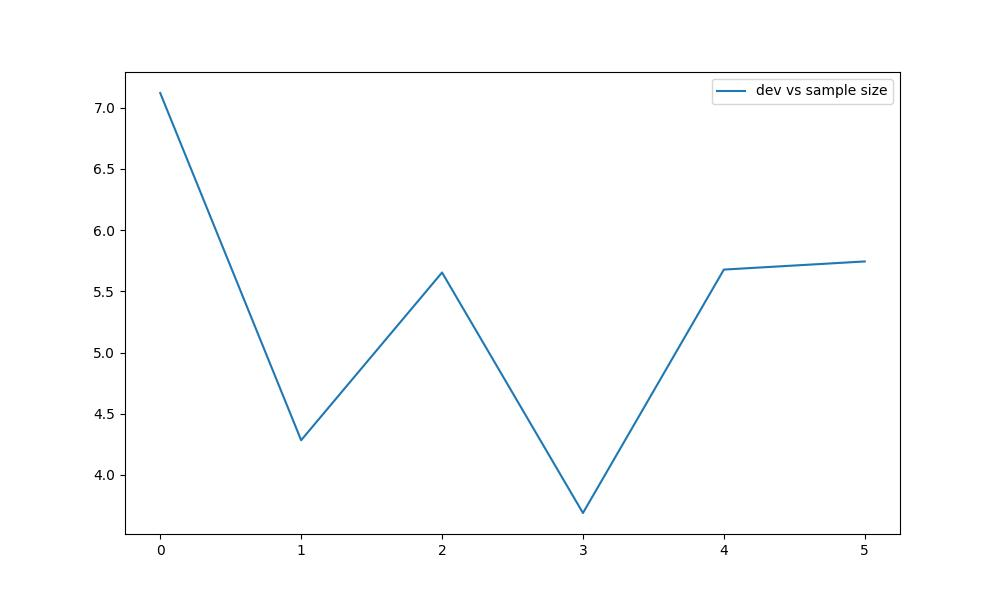
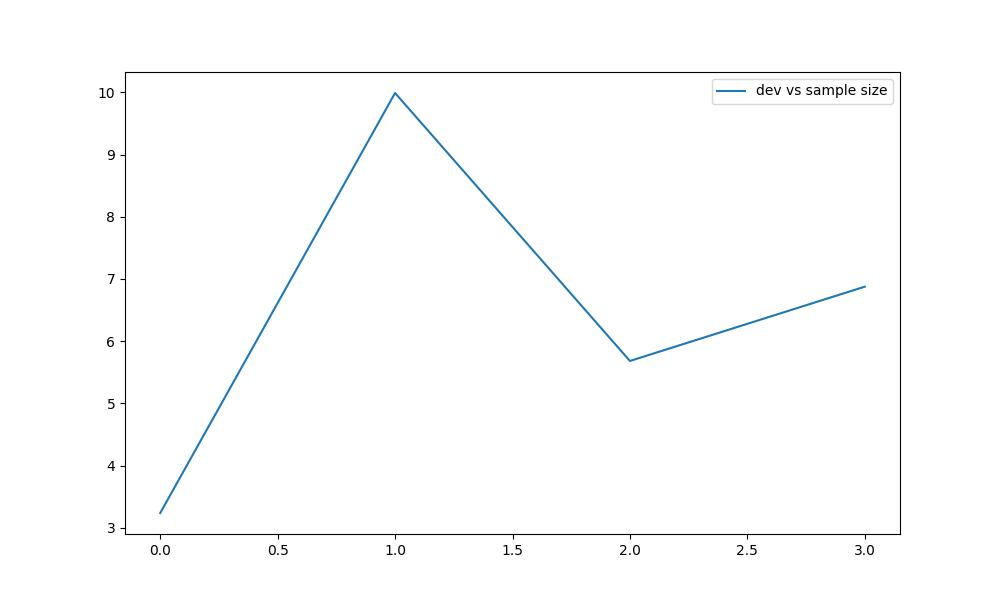
add code for offline

diff --git a/gp/gp_ucb.py b/gp/gp_ucb.py
@@ -17,7 +17,7 @@ def sample_u(CT, b, alpha, n):
         # sample x in the ball ||x||^2 < alpha
         x = np.random.normal(size=a)
         x = x / np.linalg.norm(x)  # unit vector
-        r = np.sqrt(alpha) * np.random.rand()**(1/a)
+        r = np.sqrt(alpha) 
         x = r * x
 
         # solve for u: C^T u = x - b
@@ -42,10 +42,8 @@ class gp_ucb:
         beta = 0.5
         var = np.diag(cov).reshape(-1, 1)
         score = -1*mean + (beta**0.5 * var)
-        # print(np.shape(score))
         max_indices = np.where(score == score.max())[0]
         i = np.random.choice(max_indices)
-        print(i)
         x = self.X[i]
         return(x, i)
 
@@ -61,8 +59,6 @@ class gp_ucb:
     def updation(self, Y_obs, X_obs):
             mean =  k.K(self.X, X_obs) @ np.linalg.inv(k.K(X_obs, X_obs) + 1*np.eye(X_obs.shape[0])) @ Y_obs
             cov = k.K(self.X, self.X) - k.K(self.X, X_obs) @ np.linalg.inv(k.K(X_obs, X_obs) + 1*np.eye(X_obs.shape[0])) @ k.K(X_obs, self.X)
-            print(np.shape(mean))
-            print(np.shape(cov))
             return(mean, cov)
 
 
@@ -72,40 +68,39 @@ class gp_ucb:
 n,m = 2,2
 x_0 = np.array([0.2, 0.0])
 
-T = 4
+T_list  = range(1, 100)
 sigma_0 = np.eye(n) *0.1
 Q = np.diag([2.0, 3.0])
 name = 'stable'
-norm_folder = 'gp_norms_{}'.format(name)
-state_folder = 'gp_states_{}'.format(name)
-os.makedirs(norm_folder, exist_ok=True)
-os.makedirs(state_folder, exist_ok=True)
 
-A, B, CT = get_system(name, n, m, T, seed=2)
-u = np.random.randn(m*T, 1)
-
-x_f = np.linalg.matrix_power(A, T) @ x_0.reshape(-1, 1) + CT @ u
-x_f =  x_f.reshape(-1)
-
-N_T = np.eye(n)
-
-for i in range(1, T):
-     N_T = np.hstack((N_T, np.linalg.matrix_power(A, i)))
-     
-sigma_w = np.eye(n*T) * 0.1
-sigma_z = np.linalg.matrix_power(A, T) @ sigma_0 @ np.linalg.matrix_power(A, T).T + N_T @ sigma_w @ N_T.T
-traceSigma = np.trace(sigma_z)
-tau = 2 * np.trace(sigma_z @ sigma_z)
-b = (np.linalg.matrix_power(A, T) @ x_0) - x_f
-epsilon = 0.001
-delta = 0.01
-b = np.linalg.matrix_power(A, T)@x_0 - x_f
-alpha = epsilon**2 - b.T@b + (traceSigma/delta) - 2*epsilon*math.sqrt(traceSigma/delta)
-print(alpha)
-k = GPy.kern.RBF(m*T)
 dev = []
 norm = []
-for j in range(100, 500, 100):
+for T in T_list:
+
+    A, B, CT = get_system(name, n, m, T, seed=2)
+    u = np.random.randn(m*T, 1)
+
+    x_f = np.linalg.matrix_power(A, T) @ x_0.reshape(-1, 1) + CT @ u
+    x_f =  x_f.reshape(-1)
+
+    N_T = np.eye(n)
+
+    for i in range(1, T):
+        N_T = np.hstack((N_T, np.linalg.matrix_power(A, i)))
+        
+    sigma_w = np.eye(n*T) * 0.1
+    sigma_z = np.linalg.matrix_power(A, T) @ sigma_0 @ np.linalg.matrix_power(A, T).T + N_T @ sigma_w @ N_T.T
+    traceSigma = np.trace(sigma_z)
+    tau = 2 * np.trace(sigma_z @ sigma_z)
+    b = (np.linalg.matrix_power(A, T) @ x_0) - x_f
+    epsilon = 0.5
+    delta = 0.99
+    b = np.linalg.matrix_power(A, T)@x_0 - x_f
+    alpha = epsilon**2  + (traceSigma/delta) - 2*epsilon*math.sqrt(traceSigma/delta)
+    k = GPy.kern.RBF(m*T)
+   
+    plt.figure(figsize = (10, 10))
+    j = 2000
     X =  sample_u(CT, b, alpha, j) # set of inputs from constraint (only change)
     
     algo = gp_ucb(X)
@@ -113,9 +108,7 @@ for j in range(100, 500, 100):
     Y_obs = []
     indices = []
     mean, cov = algo.initialize(k)
-    print(mean)
-
-    plt.figure(figsize = (10, 6))
+ 
 
     N = np.arange(0, np.shape(X)[0])
     for t in range(0,50):
@@ -125,32 +118,36 @@ for j in range(100, 500, 100):
         indices.append(i)
         Y_obs.append(y)
         mean, cov = algo.updation(np.array(Y_obs), np.array(X_obs))
-        plt.fill_between(N, mean[:, 0] - 1*np.sqrt(np.diag(cov)), mean[:, 0] + 1*np.sqrt(np.diag(cov)), alpha=0.2, color='blue')
-        plt.plot(N, mean, color = 'red')
-        plt.scatter(indices, Y_obs, color ='black')
-        plt.xlabel('X')
-        plt.ylabel('Mean function')
-        plt.legend()
-        plt.pause(0.4)
-        plt.savefig('gp_ucb.jpeg')
     index = indices[-1]    
-    w = np.random.normal(size = m*T)
-    xT = np.linalg.matrix_power(A, T)@ x_0 + CT @ X[index, :] + N_T @ w
-    dev.append(np.linalg.norm(x_f - xT))
+    deviation = 0
+    sim = 100
+    for t in range(0, sim):
+        w = np.random.normal(size = m*T)
+        xT = np.linalg.matrix_power(A, T)@ x_0 + CT @ X[index, :] + N_T @ w
+        deviation = deviation + np.linalg.norm(x_f - xT)
+    deviation = deviation /sim       
+    dev.append(deviation)
     norm.append(np.linalg.norm(X[index]))
-   
-N = np.arange(0, 6)
-plt.figure(figsize=(10,6))
-plt.plot(N, dev, label = 'dev vs sample size')
+    
+N = np.arange(0, len(dev))
+plt.figure(figsize = (10,6))
+plt.plot(N, dev)
+plt.xlabel('time horizon')
+plt.ylabel('state dev')
+plt.title('avg state deviation')
 plt.legend()
-plt.savefig('dev.jpeg')  
-plt.figure(figsize=(10, 6))
+plt.savefig('dev-T-{}-{}.jpeg'.format(epsilon, delta))
 
-plt.plot(N, norm, label = 'norm')
+
+plt.figure(figsize = (10,6))
+plt.plot(N, norm)
+plt.xlabel('time horizon')
+plt.ylabel('u* norm')
 plt.legend()
-plt.savefig('norm vs sample_size.jpeg')
+plt.savefig('norm-T-{}-{}.jpeg'.format(epsilon, delta))
+    
 
 
-# iterative constraint
 
+  
 

diff --git a/gp/test.py b/gp/test.py
@@ -1,0 +1,31 @@
+import numpy as np
+import matplotlib.pyplot as plt
+from scipy.linalg import block_diag
+import math
+
+T = 6
+n, m = 2,2
+Q = np.diag([2.0, 3.0])
+Q_diag = block_diag(*([Q] * T))
+
+
+def cost(Q_diag, u):
+    c = u.T @ Q_diag @ u
+    return(c)
+
+
+y = []
+for i in range(0, 1000):
+    u = np.random.randn(m*T, 1)
+    c = cost(Q_diag, u)
+    c = c.reshape(-1)
+    y.append(c)
+
+values = [float(a) for a in y]
+
+print(values)
+
+N = np.arange(0, len(values))
+plt.figure(figsize = (10, 6))
+plt.plot(N, values, 'o')
+plt.show()
